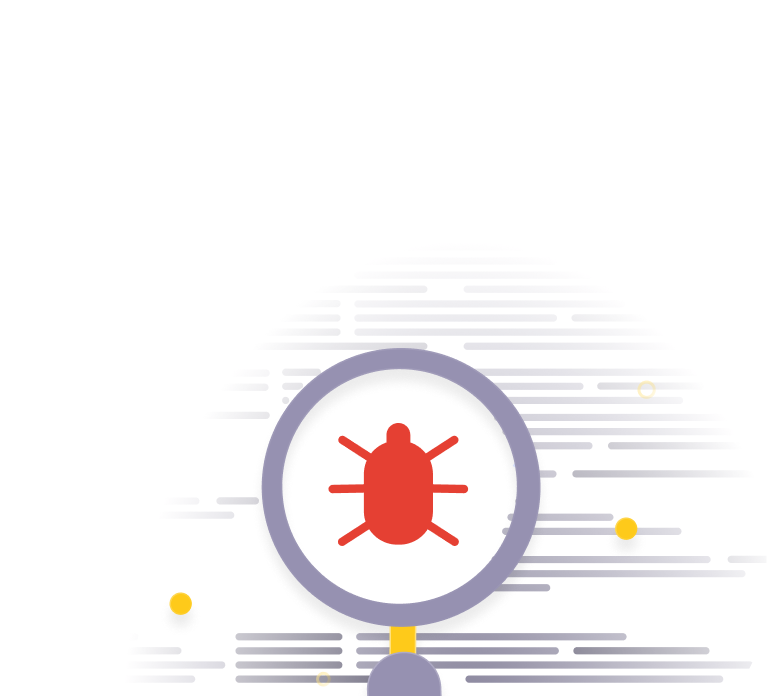
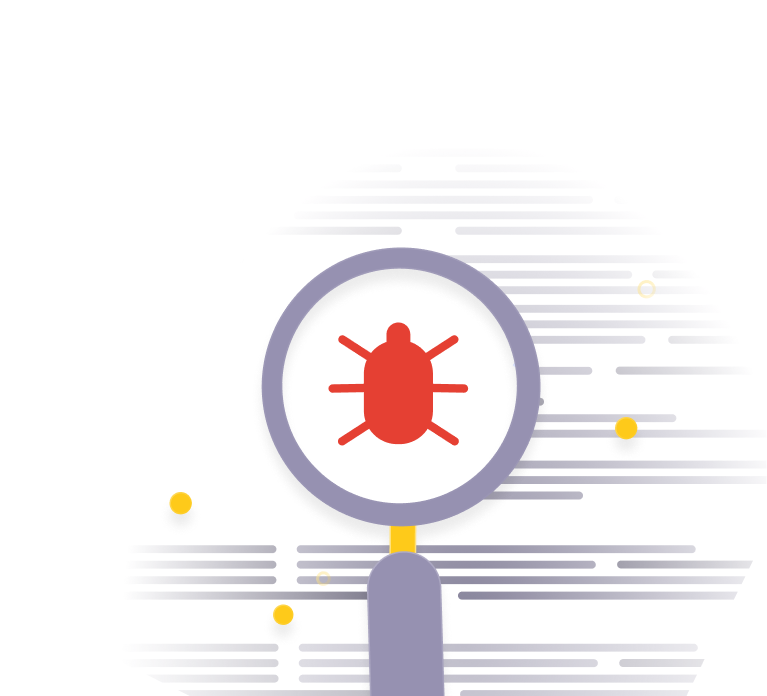
risk section udpates

Changed region(s): [[0.2099, 0.3017, 0.9896, 1.0], [0.8096, 0.3922, 0.8696, 0.4224]]

diff --git a/components/ContentSection.tsx b/components/ContentSection.tsx
@@ -267,7 +267,7 @@ const ContentSection = () => {
                   </div>
 
                   <div className="grid grid-cols-1 md:grid-cols-7 lg:grid-cols-7 grid-rows-2 gap-6 mb-16 mx-auto">
-                    <div className="col-span-1 md:col-span-3 lg:col-span-3 p-5 bg-bkg-3 border border-bkg-4 rounded-xl h-auto w-auto z-10 shadow-md bg-risk-two md:bg-risk-one lg:bg-risk-one bg-contain bg-right-bottom bg-no-repeat">
+                    <div className="col-span-1 md:col-span-3 lg:col-span-3 p-5 bg-bkg-3 border border-bkg-4 rounded-xl h-650 md:h-auto lg:h-auto w-auto z-10 shadow-md bg-risk-two md:bg-risk-one lg:bg-risk-one bg-contain bg-right-bottom bg-no-repeat">
                       <h3 className="text-white font-semibold text-xl tracking-wide my-2">
                       Unaudited smart contracts.  
                       </h3>
@@ -282,7 +282,7 @@ const ContentSection = () => {
                       </p>
                       </div>
                   </div>
-                  <div className="col-span-1 md:col-span-4 lg:col-span-4 row-span-2 p-5 bg-bkg-3 border border-bkg-4 rounded-xl h-auto w-auto z-10 shadow-md">
+                  <div className="col-span-1 md:col-span-4 lg:col-span-4 row-span-2 p-5 bg-bkg-3 border border-bkg-4 rounded-xl h-650 md:h-auto lg:h-auto w-auto z-10 shadow-md bg-risk-three bg-contain bg-bottom bg-no-repeat">
                       <h3 className="text-white font-semibold text-xl tracking-wide my-2">
                       New token sale mechanism 
                       </h3>

diff --git a/tailwind.config.js b/tailwind.config.js
@@ -20,6 +20,7 @@ module.exports = {
         'bg-texture': "url('../public/img/bgtexture.png')",
         'risk-one': "url('../public/img/risk1.png')",
         'risk-two': "url('../public/img/risk2.png')",
+        'risk-three': "url('../public/img/risk3.png')",
 
       }),
       height: {
